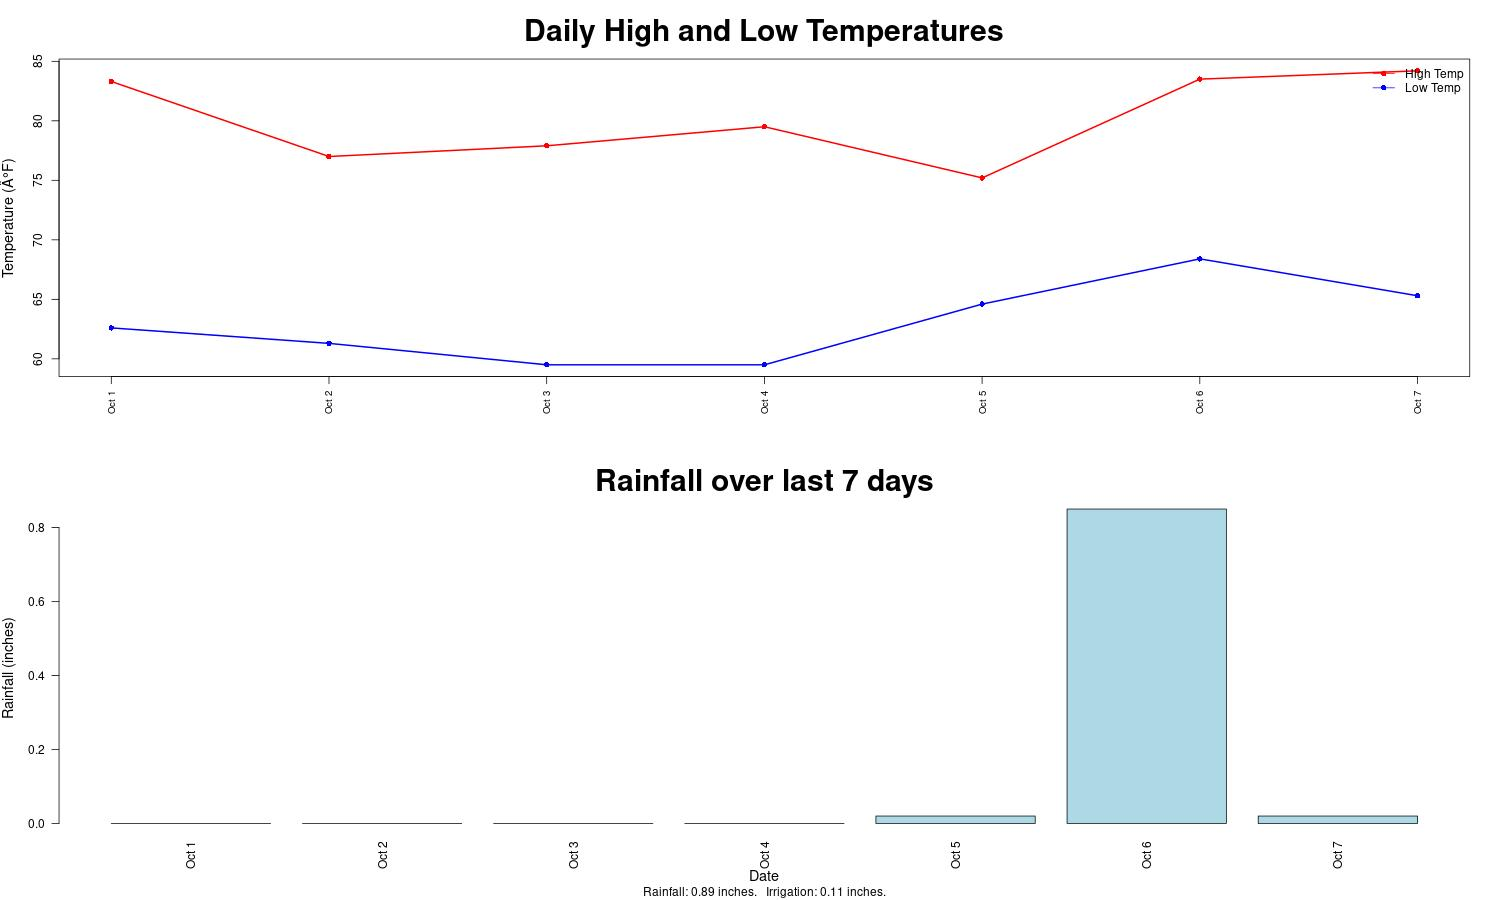
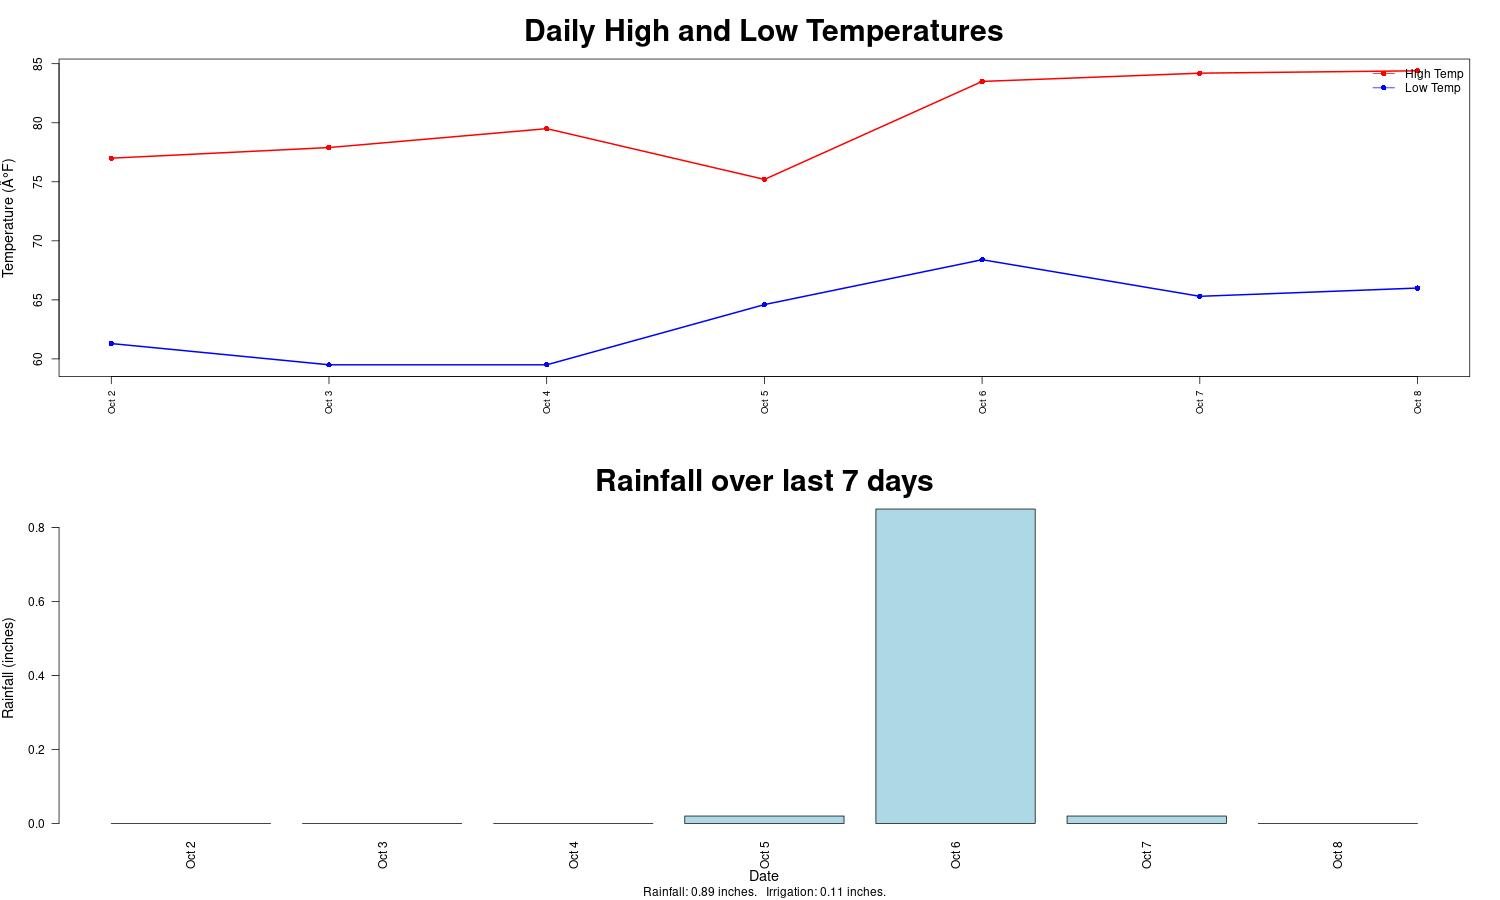
Auto-update rainfall data 2025-10-09 06:00:03

diff --git a/index.html b/index.html
@@ -30,13 +30,6 @@ img { max-width: 100%; height: auto; }
  </thead>
 <tbody>
   <tr>
-   <td style="text-align:left;"> Oct 1 </td>
-   <td style="text-align:left;"> 83.3 </td>
-   <td style="text-align:left;"> 62.6 </td>
-   <td style="text-align:left;"> 66.4 </td>
-   <td style="text-align:right;"> 0.00 </td>
-  </tr>
-  <tr>
    <td style="text-align:left;"> Oct 2 </td>
    <td style="text-align:left;"> 77 </td>
    <td style="text-align:left;"> 61.3 </td>
@@ -78,11 +71,18 @@ img { max-width: 100%; height: auto; }
    <td style="text-align:left;"> 88 </td>
    <td style="text-align:right;"> 0.02 </td>
   </tr>
+  <tr>
+   <td style="text-align:left;"> Oct 8 </td>
+   <td style="text-align:left;"> 84.4 </td>
+   <td style="text-align:left;"> 66 </td>
+   <td style="text-align:left;"> 88.7 </td>
+   <td style="text-align:right;"> 0.00 </td>
+  </tr>
 </tbody>
 </table>
 <h2>Temperature and Rainfall Visualization</h2>
 <img src="stats.jpg" alt="Rainfall chart">
 
-<p><em>Last updated: October 08, 2025 08:04:50</em></p>
+<p><em>Last updated: October 09, 2025 06:00:03</em></p>
 </body>
 </html>
